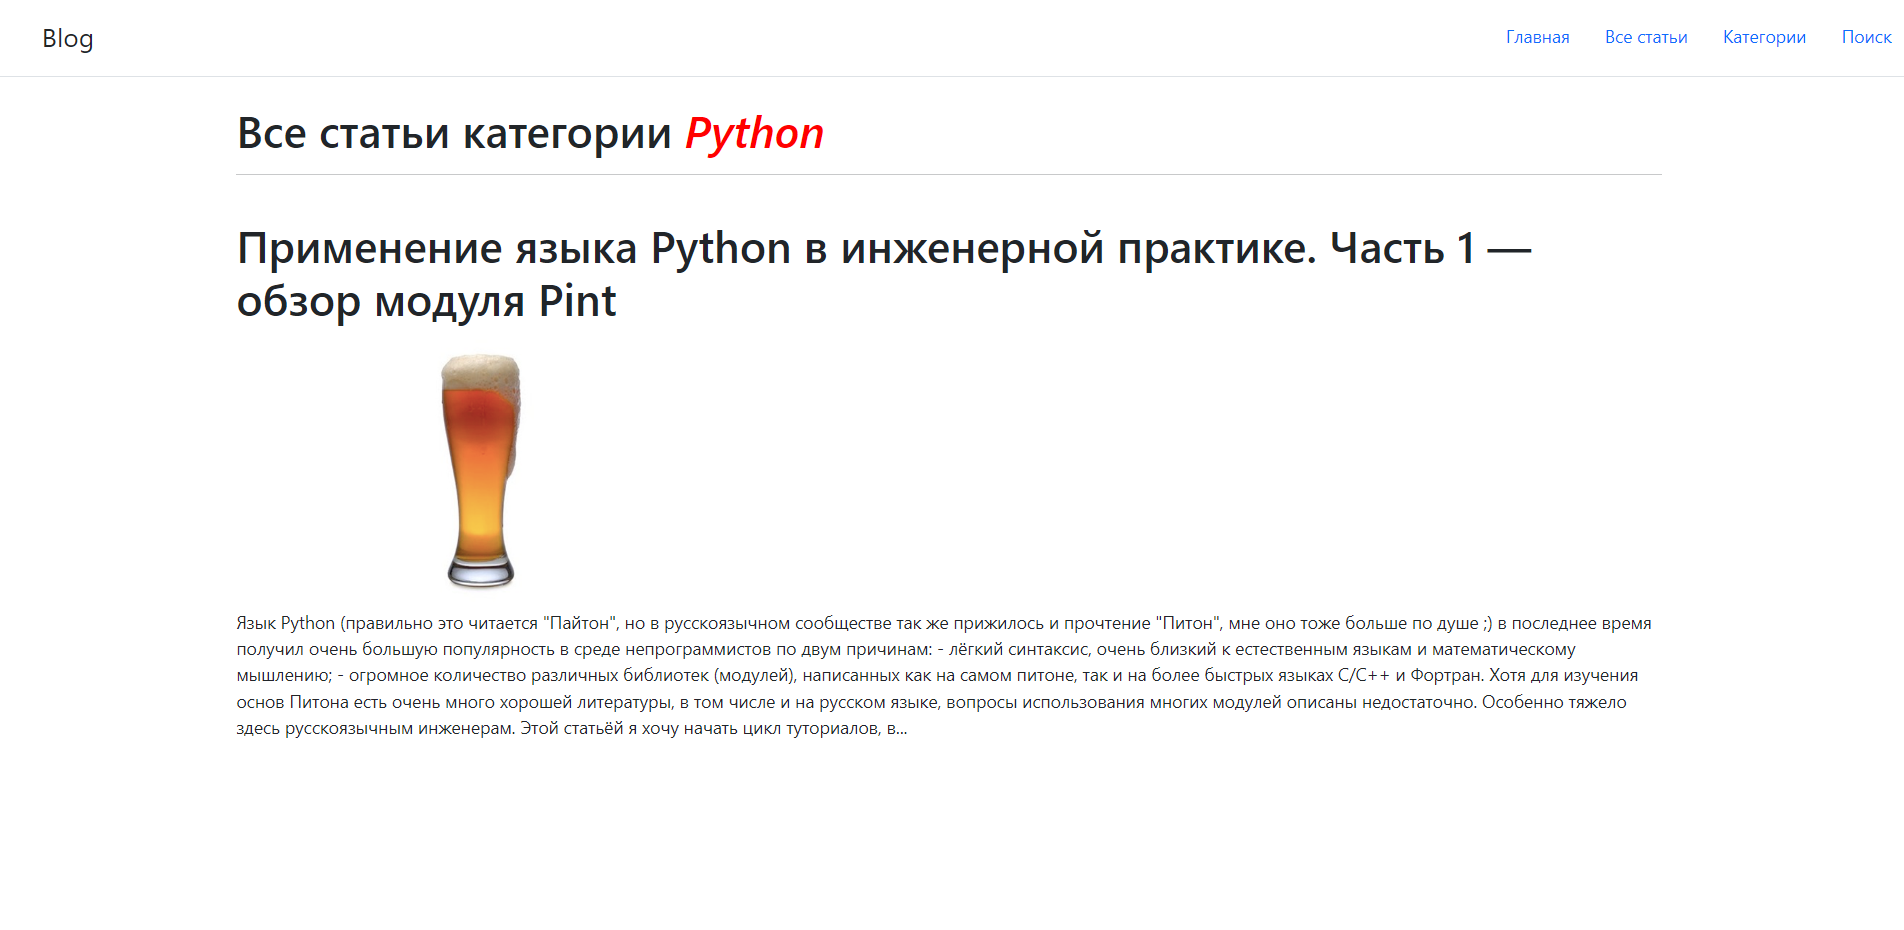
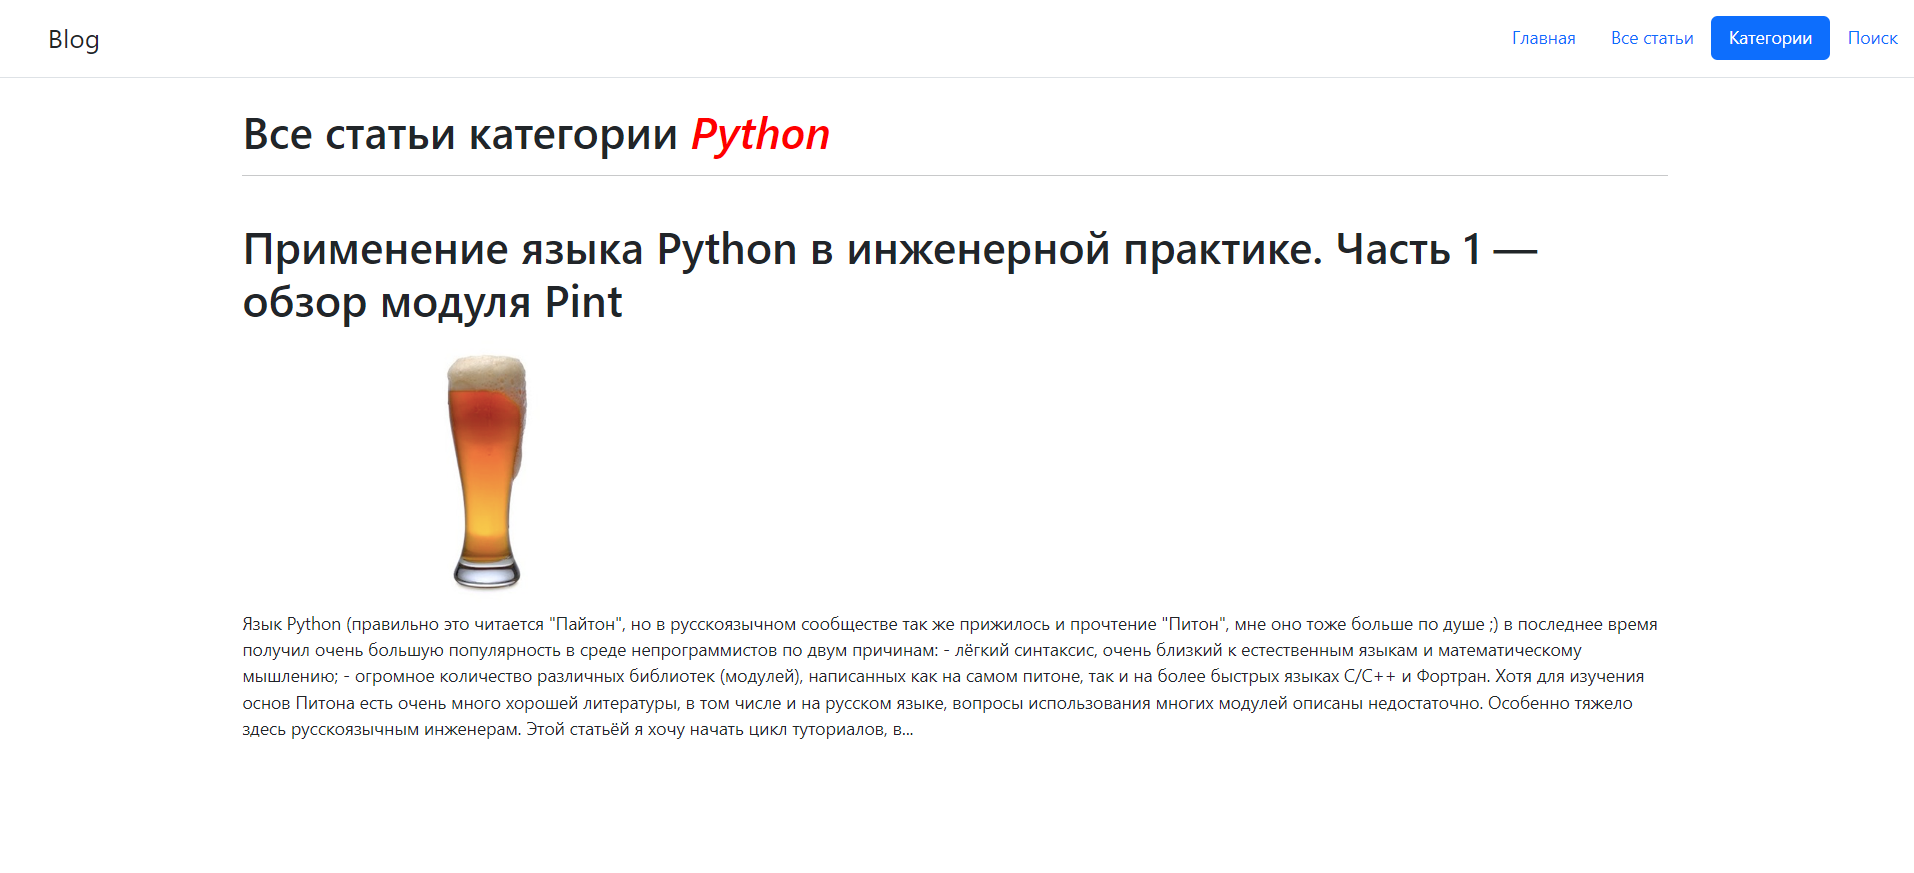
update static image

diff --git a/templates/category.html b/templates/category.html
@@ -4,7 +4,7 @@
 <ul class="nav nav-pills">
     <li class="nav-item"><a href="/" class="nav-link" aria-current="page">Главная</a></li>
     <li class="nav-item"><a href="/all_articles/" class="nav-link">Все статьи</a></li>
-    <li class="nav-item"><a href="/category/" class="nav-link">Категории</a></li>
+    <li class="nav-item"><a href="/category/" class="nav-link active">Категории</a></li>
     <li class="nav-item"><a href="/search/" class="nav-link">Поиск</a></li>
 </ul>
 {% endblock %}
